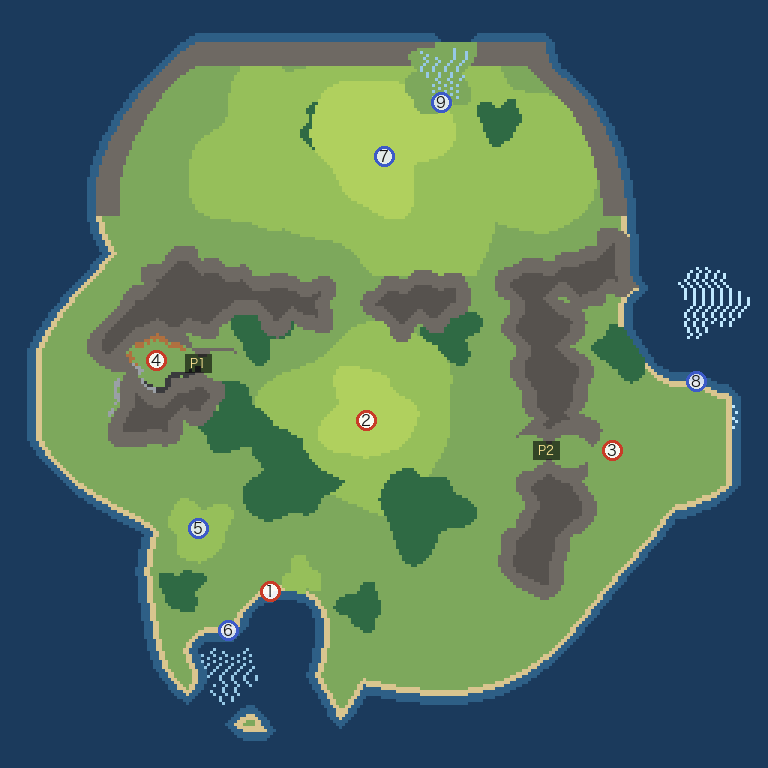
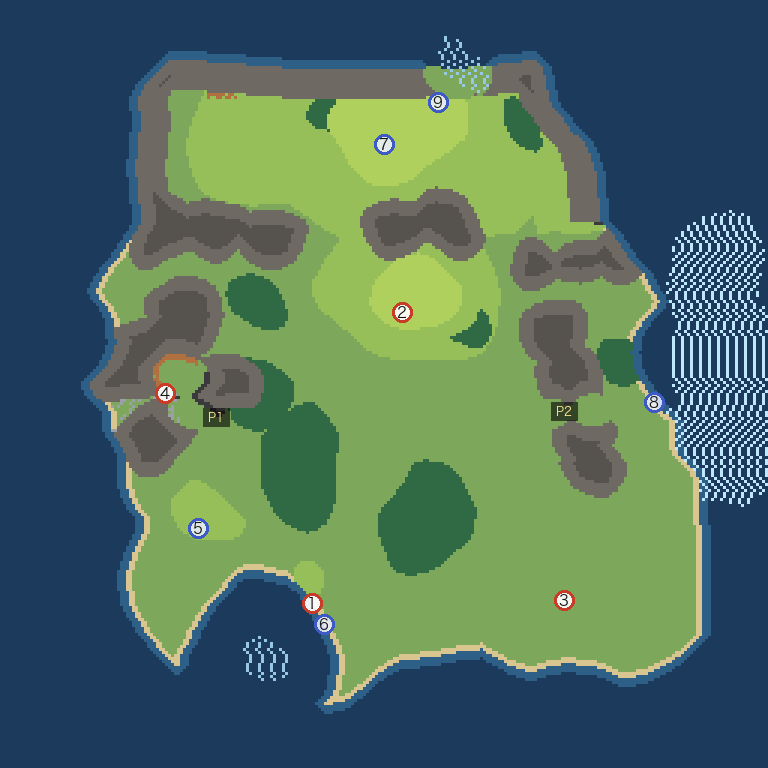
docs: B-2マップv3（自然地形化・漁業再配置・距離序列は魚鉱→穀倉）

diff --git a/GPT/game/shioji/design/map_b2/generate_b2_map.py b/GPT/game/shioji/design/map_b2/generate_b2_map.py
@@ -19,24 +19,45 @@ COLORS = {
 
 yy, xx = np.mgrid[0:N, 0:N]
 
-def blob(cx, cy, r, wobble=0.18, freq=5):
-    """有機的な輪郭のかたまり(True=内側)"""
-    ang = np.arctan2(yy - cy, xx - cx)
-    noise = sum(np.sin(ang * f + rng.uniform(0, 6.28)) * (wobble / i)
-                for i, f in enumerate(range(3, 3 + freq), 1))
-    dist = np.hypot(xx - cx, yy - cy)
-    return dist < r * (1 + noise)
+def value_noise(cell, seed_offset=0):
+    g = np.random.default_rng(20260814 + seed_offset)
+    gw = N // cell + 3
+    grid = g.uniform(-1, 1, (gw, gw))
+    gy, gx = yy / cell, xx / cell
+    y0, x0 = gy.astype(int), gx.astype(int)
+    fy, fx = gy - y0, gx - x0
+    fy = fy * fy * (3 - 2 * fy); fx = fx * fx * (3 - 2 * fx)
+    v = (grid[y0, x0] * (1-fx) * (1-fy) + grid[y0, x0+1] * fx * (1-fy)
+         + grid[y0+1, x0] * (1-fx) * fy + grid[y0+1, x0+1] * fx * fy)
+    return v
+
+def fbm(seed_offset=0):
+    return (value_noise(64, seed_offset) * 1.0 + value_noise(32, seed_offset+7) * 0.5
+            + value_noise(16, seed_offset+13) * 0.25 + value_noise(8, seed_offset+29) * 0.12) / 1.87
+
+# ドメインワープ: すべての形状評価をこの歪んだ座標系で行う→円が自然地形になる
+WARP = 17.0
+wx = xx + fbm(101) * WARP
+wy = yy + fbm(202) * WARP
+edge = fbm(303)  # 海岸線の細かい出入り
+
+def blob(cx, cy, r, wobble=0.35, freq=None):
+    """ワープ座標系のかたまり+輪郭ノイズ(True=内側)"""
+    dist = np.hypot(wx - cx, wy - cy)
+    return dist < r * (1 + edge * wobble)
 
 # ── 1. 島の外形 ──
 # 南西に母港の湾・東に漁港側の海岸線・北は山塊の高台が海に落ちる形
-island = blob(128, 126, 102, wobble=0.10)
-island |= blob(96, 190, 52, wobble=0.14)      # 南の張り出し(母港側)
-island |= blob(196, 138, 46, wobble=0.14)     # 東の張り出し(漁港側)
-island |= blob(120, 62, 78, wobble=0.10)      # 北の山地土台
-island &= ~blob(88, 224, 24, wobble=0.25)     # 母港の湾を削る
-island &= ~blob(238, 106, 26, wobble=0.2)     # 北東の入り江
-island[:14, :] = False; island[-12:, :] = False
-island[:, :12] = False; island[:, -12:] = False
+island = blob(128, 128, 92, wobble=0.22)
+island |= blob(96, 190, 50, wobble=0.22)      # 南の張り出し(母港側)
+island |= blob(196, 190, 42, wobble=0.22)     # 南東の張り出し(新しい漁港の家)
+island |= blob(122, 66, 72, wobble=0.18)      # 北の土台
+island &= ~blob(88, 224, 26, wobble=0.35)     # 母港の湾
+island &= ~blob(242, 112, 30, wobble=0.3)     # 北東の入り江(広大な漁場側)
+island &= ~blob(150, 236, 18, wobble=0.35)    # 南の入り江(母港と新漁港の間)
+# 枠は直線で切らない: ノイズ入りの海マージン(14〜26タイル)で有機的に沈める
+border = np.minimum.reduce([xx, yy, (N-1) - xx, (N-1) - yy]).astype(float)
+island &= border > (15 + (fbm(404) + 1) * 6)
 
 terrain = np.full((N, N), SEA, dtype=np.int16)
 terrain[island] = GRASS  # islandはこの後の北の潟の切除で更新される
@@ -49,25 +70,25 @@ def dilate0(mask, n=1):
         out = out | np.roll(out, 1, 0) | np.roll(out, -1, 0) | np.roll(out, 1, 1) | np.roll(out, -1, 1)
     return out
 # 北は海際の稜線だけ(内側は広大な盆地に明け渡す)。稜線は海岸から8タイル幅
-north_rim = island & dilate0(~island, 8) & (yy < 72)
+north_rim = island & dilate0(~island, 10) & (yy < 74)
 mountains |= north_rim
 # 北の潟(わずかな海): 稜線を切って海を招き入れる
 lagoon = blob(148, 22, 10, wobble=0.25) | blob(142, 30, 7, wobble=0.2)
 island_cut = lagoon
 # 中央盆地と北の大盆地を分ける丘陵(2つの広い口を開ける)
 hill_line = np.zeros((N, N), bool)
-for cx, cy, r in [(58, 94, 11), (74, 97, 11), (90, 100, 10), (103, 101, 9),
-                  (132, 101, 10), (146, 99, 10),
-                  (176, 95, 10), (192, 92, 10), (206, 88, 11), (218, 84, 10)]:
-    hill_line |= blob(cx, cy, r, wobble=0.16)
+for cx, cy, r in [(58, 82, 11), (74, 84, 11), (90, 86, 10),
+                  (128, 80, 9), (142, 78, 9),
+                  (172, 80, 10), (188, 78, 10), (202, 76, 11), (216, 72, 10)]:
+    hill_line |= blob(cx, cy, r, wobble=0.25)
 mountains |= hill_line          # 北への門: x≈110-124(西口) と x≈154-168(東口)の2つだけ
 # 東の海岸山脈: 盆地と漁港を隔てる(v1のまま)
-for cx, cy, r in [(180, 108, 13), (184, 128, 13), (186, 148, 13), (184, 168, 13), (178, 186, 12)]:
-    mountains |= blob(cx, cy, r, wobble=0.14)
+for cx, cy, r in [(182, 106, 13), (188, 124, 13), (192, 142, 12), (194, 158, 11)]:
+    mountains |= blob(cx, cy, r, wobble=0.25)
 # 西の山地(山間鉱山の新しい家): ポケットを抱く峠ロックの小山塊
-for cx, cy, r in [(46, 112, 15), (60, 100, 13), (64, 126, 13), (48, 138, 12)]:
+for cx, cy, r in [(48, 124, 15), (62, 112, 13), (66, 138, 13), (50, 150, 12)]:
     mountains |= blob(cx, cy, r, wobble=0.15)
-pocket = blob(52, 120, 9, wobble=0.12)
+pocket = blob(54, 132, 9, wobble=0.15)
 mountains &= ~pocket
 # 峠(山を貫く回廊が唯一の道)
 def corridor(x0, y0, x1, y1, width=4):
@@ -79,19 +100,19 @@ def corridor(x0, y0, x1, y1, width=4):
         mask |= (np.hypot(xx-cx, yy-cy) < w)
     return mask
 passes = np.zeros((N, N), bool)
-passes |= corridor(78, 122, 56, 120)      # P1: 平野→西の鉱山
-passes |= corridor(172, 150, 192, 150)    # P2: 盆地→漁港
+passes |= corridor(84, 142, 60, 136)      # P1: 平野→西の鉱山
+passes |= corridor(178, 138, 200, 136)    # P2: 盆地→東海岸(後半漁場への近道)
 mountains &= ~passes
 island &= ~island_cut
 mountains &= island
 terrain[mountains] = MOUNTAIN
 
 # ── 3. 肥沃度(畑適地) ──
-fert1 = blob(122, 138, 30, wobble=0.13) & island & ~mountains            # 中央盆地
-fert2core = blob(122, 138, 15, wobble=0.15) & fert1
-north_basin = (blob(130, 48, 46, wobble=0.12) | blob(90, 52, 26, wobble=0.15) | blob(180, 52, 24, wobble=0.15))
-north_basin &= island & ~mountains & (yy < 92)
-fert2north = blob(126, 46, 22, wobble=0.15) & north_basin                # 北のコアは中央より広い
+fert1 = blob(134, 102, 28, wobble=0.2) & island & ~mountains             # 中央盆地(母港から遠ざけた)
+fert2core = blob(134, 102, 14, wobble=0.2) & fert1
+north_basin = (blob(130, 46, 44, wobble=0.2) | blob(90, 50, 24, wobble=0.25) | blob(180, 50, 22, wobble=0.25))
+north_basin &= island & ~mountains & (yy < 70 + (fbm(505) + 1) * 7)  # 南縁は直線にしない
+fert2north = blob(126, 44, 20, wobble=0.25) & north_basin                # 北のコアは中央より広い
 fert_sw = blob(66, 176, 10, wobble=0.18) & island & ~mountains           # 第二の盆地(近いが狭い)
 fert_port = blob(100, 192, 6, wobble=0.2) & island & ~mountains          # 母港のわずかな畑(人口150の上限の根拠)
 terrain[fert1 | fert_sw | north_basin | fert_port] = FERT1
@@ -99,12 +120,12 @@ terrain[fert2core | fert2north] = FERT2
 # ── 4. 森(燃料と木材・前線が動く場) ──
 forest = np.zeros((N, N), bool)
 for cx, cy, r in [(96, 158, 15), (140, 170, 14), (78, 140, 11),          # 盆地の南縁の帯
-                  (120, 202, 7), (60, 196, 7),                            # 母港の小さな森(約3年で尽きる較正)
+                  (100, 214, 5), (82, 200, 5),                            # 母港のすぐ側の小さな森(約3年で尽きる較正)
                   (86, 108, 10), (150, 110, 9), (208, 116, 9),           # 丘陵の裾
                   (108, 42, 8), (166, 40, 7)]:                             # 北の少しの木
     forest |= blob(cx, cy, r, wobble=0.2)
 forest &= island & ~mountains & ~fert2core & ~fert2north & ~pocket
-forest &= ~(blob(122, 138, 22, wobble=0.1))
+forest &= ~(blob(134, 102, 20, wobble=0.15))
 terrain[forest] = FOREST
 # ── 5. 砂浜と浅瀬 ──
 def dilate(mask, n=1):
@@ -129,12 +150,12 @@ def deposit(kind, cx, cy, r, count):
     terrain[ys[pick], xs[pick]] = kind
 
 # 西の山間鉱山(主鉱床: 鉄+石炭+石材が揃う・峠P1ロック)
-deposit(ORE, 48, 114, 10, 40)
-deposit(COAL, 58, 128, 10, 40)
-deposit(ROCKDEP, 44, 132, 10, 30)
+deposit(ORE, 50, 126, 10, 40)
+deposit(COAL, 60, 140, 10, 40)
+deposit(ROCKDEP, 46, 144, 10, 30)
 # 北の大盆地の少しの鉱床(終盤開発の種)
-deposit(ORE, 96, 60, 8, 12)
-deposit(COAL, 176, 58, 8, 12)
+deposit(ORE, 74, 46, 9, 14)
+deposit(COAL, 196, 54, 9, 14)
 # 盆地の南の岩場(採石のみ)
 deposit(ROCKDEP, 148, 186, 8, 10)
 
@@ -142,26 +163,28 @@ deposit(ROCKDEP, 148, 186, 8, 10)
 fish_rich = np.zeros((N, N), bool)
 fish_mid = np.zeros((N, N), bool)
 sea_ok = ~island
-fish_rich |= blob(226, 148, 17, wobble=0.2) & sea_ok      # 漁港沖(豊か)
-fish_rich |= blob(236, 100, 11, wobble=0.2) & sea_ok      # 北東入り江(豊か・遠い候補)
-fish_mid  |= blob(76, 224, 9, wobble=0.2) & sea_ok        # 母港の小規模漁場(約3年で痩せる較正)
-fish_mid  |= blob(148, 24, 8, wobble=0.25) & sea_ok       # 北の潟(終盤のわずかな海)
+# 後半用の広大な漁場: 東〜北東の沖を一続きの豊かな帯に
+fish_rich |= (blob(238, 150, 22, wobble=0.3) | blob(246, 118, 24, wobble=0.3)
+              | blob(240, 88, 20, wobble=0.3)) & sea_ok
+fish_rich |= blob(204, 218, 13, wobble=0.3) & sea_ok     # 新漁港(南東)の沖: 6より大きく8より小さい
+fish_mid  |= blob(88, 222, 8, wobble=0.3) & sea_ok        # 母港の湾内の小規模漁場(約3年で痩せる較正)
+fish_mid  |= blob(148, 24, 8, wobble=0.3) & sea_ok        # 北の潟(終盤のわずかな海)
 
 # ── 8. 市場と候補地 ──
 MARKETS = {  # id: (x, y, 名前)
     1: (92, 206, '母港(枯渇するスターター)'),
-    2: (122, 140, '中央盆地(農耕)'),
-    3: (204, 150, '漁港'),
-    4: (52, 120, '山間鉱山(西)'),
+    2: (134, 104, '中央盆地(農耕)'),
+    3: (188, 200, '漁港(南東)'),
+    4: (54, 132, '山間鉱山(西)'),
 }
 CANDIDATES = {
     5: (66, 176, '第二の盆地(近いが狭い)'),
-    6: (76, 218, '母港の漁場(小・3年で痩せる)'),
-    7: (128, 52, '北の大盆地(終盤の約束の土地)'),
-    8: (236, 104, '北東の入り江(豊か・遠い)'),
+    6: (97, 214, '母港の漁場(湾内・小・3年で痩せる)'),
+    7: (128, 48, '北の大盆地(終盤の約束の土地)'),
+    8: (226, 130, '東の大漁場(後半・広大)'),
     9: (146, 34, '北の潟(わずかな海)'),
 }
-PASSES = {'P1': (66, 121), 'P2': (182, 150)}
+PASSES = {'P1': (72, 139), 'P2': (188, 137)}
 
 # ── 9. 経路検証(BFS: 山と海は通行不可) ──
 passable = island & ~mountains

diff --git a/GPT/game/shioji/decisions/DECISIONS_20260814_b2_map_v3.md b/GPT/game/shioji/decisions/DECISIONS_20260814_b2_map_v3.md
@@ -1,0 +1,10 @@
+# 決定ログ 2026-08-14 — B-2マップv3の要件（Nao_u指示・v2レビュー）
+
+**状態**: 凍結
+**Nao_u原文**: 「島の形や地形をもっと自然地形っぽくできないか。右下に6よりも大きくて8よりも小さい漁場、8の漁場はもっと広大に。イメージとしては3を右下に、後半用の広大な漁場をいまの3に。2が近過ぎる上に、1の小さい木が遠くておおき過ぎる」「あと2よりも3と4の方が近くなるようにして」
+
+**決定**:
+1. **自然地形化**: 生成器にfBmノイズのドメインワープ+有機的な海マージン(直線クリップ廃止)を導入。以後の全形状はこの座標系で描く
+2. **漁業の再配置**: 漁港(市場3)は**南東海岸**へ。その沖に中規模の漁場(6より大きく8より小さい)。**東〜北東の沖は一続きの広大な後半用漁場**(旧3の位置+8を統合拡大)
+3. **距離の序列**: 母港から **3(漁港)と4(鉱山)が2(穀倉盆地)より近い**。実測 6:0.2 → 5:1.3 → 3:1.7 → 4:2.4 → 2:2.5 → 7:3.5 → 8:3.6 → 9:4.2日。穀物が一番遠い=路線の主役になる
+4. **母港の森**: 港のすぐ側に小さく(3年枯渇の較正はそのまま)。母港の漁場は湾内(0.2日)
